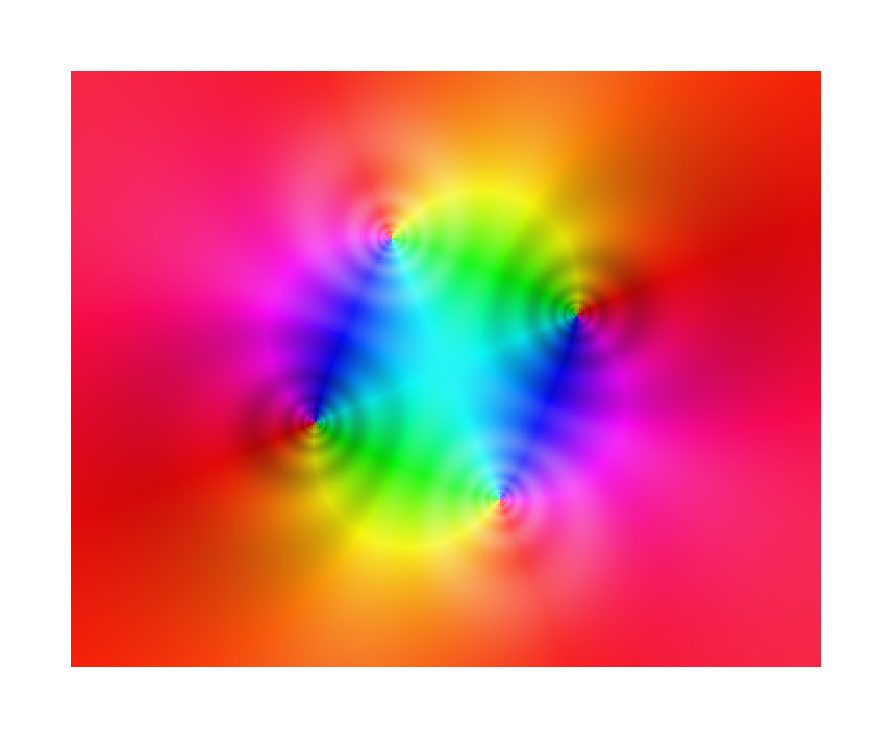
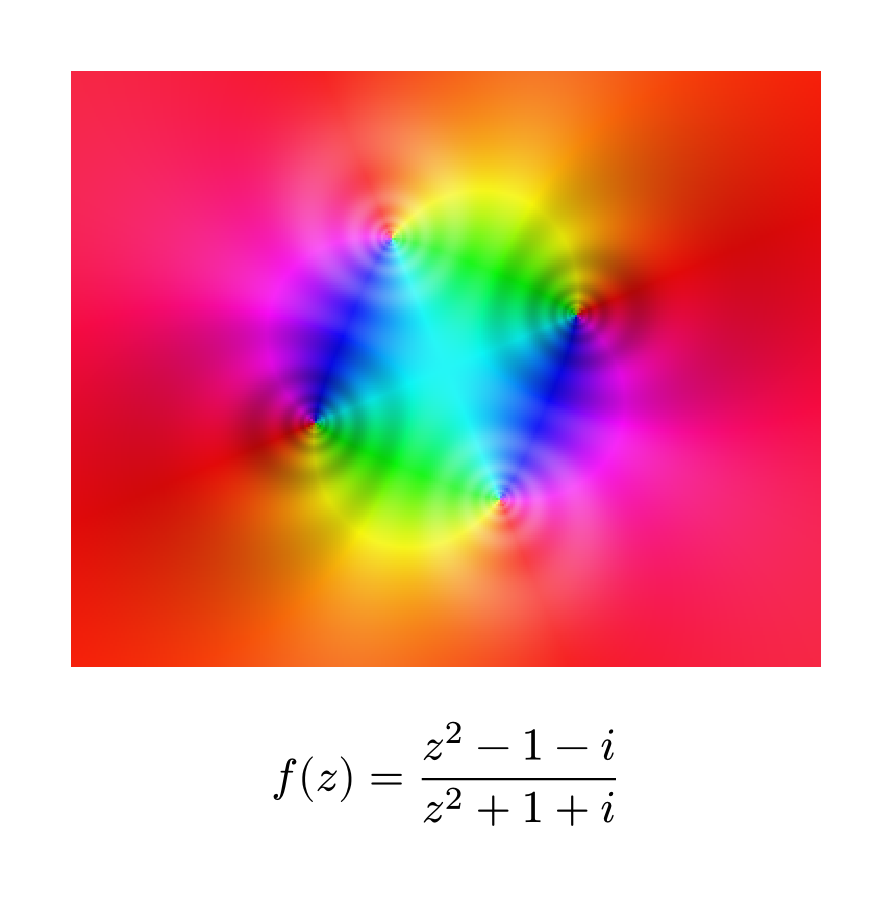
docs: updated examples

diff --git a/README.md b/README.md
@@ -131,3 +131,29 @@ If you want to build this package for yourself, you will need a few dependencies
   non-lossy compression. This is currently unused, but will likely be in the future.
 
 Building using `just build` will compile the wasm package into the `./lib/wasm` directory.
+
+## Examples
+
+<table>
+<tr>
+  <td>
+    <a href="examples/eval_multiple_exprs.typ">
+      <img src="examples/eval_multiple_exprs.png" width="250px" alt="Expression evaluation example">
+    </a>
+  </td>
+  <td>
+    <a href="examples/solve_ode_system.typ">
+      <img src="examples/solve_ode_system.png" width="250px" alt="ODE numerical solution example">
+    </a>
+  </td>
+  <td>
+    <a href="examples/phase_portrait.typ">
+      <img src="examples/phase_portrait.png" width="250px" alt="Complex function phase portrait example">
+    </a>
+  </td>
+</tr><tr>
+  <td>Multiple Expression Evaluations</td>
+  <td>Numerical ODE Solution</td>
+  <td>Complex function Phase Portrait</td>
+</tr>
+</table>
